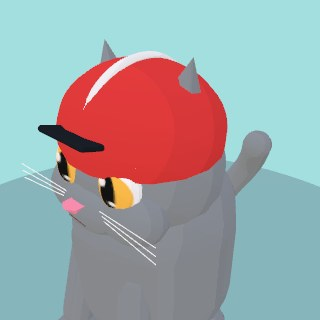
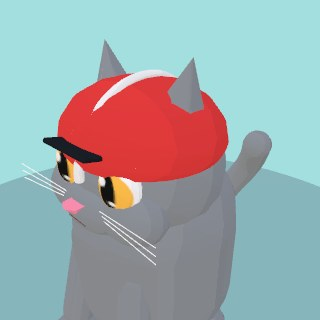
Molded curved surfaces for accessories (lathe/sweep/drape helpers)
Root-cause fix for 'primitives cobbled together': three new modeling
helpers build genuinely continuous curved surfaces, and the flagged
accessories are remodeled with them.

- latheDeform(profile, segs, deform): revolve ONE unbroken 2D silhouette
  (brim + crown + dome as a single surface), then sculpt it with an
  azimuth-aware vertex callback. Deforms are cos/sin/|x| forms so the
  lathe seam stays welded.
- taperedTube(points, r0, r1): sweep a shrinking circle along a curve —
  smooth single-piece horns (TubeGeometry can't taper).
- torsoRibbonGeo(...): a cloth strip whose vertices all lie on the torso
  capsule's surface (+offset) — fabric that drapes down the chest.

Remodeled with them:
- Pirate tricorn: one lathed dome+brim, brim folded up-and-inward in
  three cos(3th) lobes like a real pinned tricorn.
- Cowboy: one lathed crown+brim; sides roll up (|sin th|^3 lift) and a
  cattleman crease is carved into the crown top.
- Aviator: one lathed cap whose skirt hangs long at the sides (molded ear
  flaps, no head clipping) and lifts clear of face and nape.
- Racing helmet: one lathed low shell with flared lip, sized to hug the
  scalp; slim stripe + small peak.
- Viking horns: single smooth tapered sweeps.
- Crown: one molded zigzag ring (six points in the wall's own top edge).
- Scarf: the hanging end is a conforming drape down the chest with a
  flush woven-in white tip.
Also: wider cap brim, steeper bandana/scarf band tilt (top edge clears
[…]

Changed region(s): [[0.125, 0.1562, 0.7188, 0.5938], [0.4062, 0.5625, 0.5625, 0.5938], [0.5625, 0.5312, 0.6562, 0.5625]]

diff --git a/src/models.js b/src/models.js
@@ -639,6 +639,87 @@ function chestDecalGeo(big) {
   return (_chestDecalGeo[key] = _sharedGeo(g));
 }
 
+// --- Molded-surface helpers -------------------------------------------------
+// The accessories used to be primitive assemblies, which always read as parts
+// stuck together. These build genuinely continuous curved surfaces instead:
+//
+// latheDeform: revolve a 2D profile (one unbroken silhouette — brim, crown and
+// dome in a single surface) and then sculpt it with an azimuth-aware callback —
+// tricorn folds, cowboy brim curls, ear-flap skirts are all carved into the ONE
+// mesh rather than bolted on. The deform must agree at θ=±π (use cos/sin/|x|
+// forms) so the lathe seam stays welded.
+function latheDeform(points, segs, deform) {
+  const g = new THREE.LatheGeometry(points.map(([r, y]) => new THREE.Vector2(r, y)), segs);
+  if (deform) {
+    const pos = g.attributes.position;
+    const v = new THREE.Vector3();
+    for (let i = 0; i < pos.count; i++) {
+      v.set(pos.getX(i), pos.getY(i), pos.getZ(i));
+      deform(v, Math.atan2(v.x, v.z), Math.hypot(v.x, v.z));
+      pos.setXYZ(i, v.x, v.y, v.z);
+    }
+  }
+  g.computeVertexNormals();
+  return g;
+}
+// taperedTube: sweep a circle of shrinking radius along a curve — one smooth
+// molded piece for horns and the like (TubeGeometry can't taper).
+function taperedTube(pts, r0, r1, segs = 14, radial = 10) {
+  const curve = new THREE.CatmullRomCurve3(pts);
+  const frames = curve.computeFrenetFrames(segs, false);
+  const pos = [], uv = [], idx = [];
+  for (let i = 0; i <= segs; i++) {
+    const t = i / segs;
+    const c = curve.getPoint(t);
+    const rad = r0 + (r1 - r0) * Math.pow(t, 0.85);
+    const n = frames.normals[i], b = frames.binormals[i];
+    for (let j = 0; j <= radial; j++) {
+      const a = (j / radial) * Math.PI * 2, ca = Math.cos(a), sa = Math.sin(a);
+      pos.push(c.x + rad * (ca * n.x + sa * b.x), c.y + rad * (ca * n.y + sa * b.y), c.z + rad * (ca * n.z + sa * b.z));
+      uv.push(j / radial, t);
+    }
+  }
+  for (let i = 0; i < segs; i++)
+    for (let j = 0; j < radial; j++) {
+      const a = i * (radial + 1) + j, b2 = a + radial + 1;
+      idx.push(a, b2, a + 1, a + 1, b2, b2 + 1);
+    }
+  const g = new THREE.BufferGeometry();
+  g.setAttribute("position", new THREE.Float32BufferAttribute(pos, 3));
+  g.setAttribute("uv", new THREE.Float32BufferAttribute(uv, 2));
+  g.setIndex(idx);
+  g.computeVertexNormals();
+  return g;
+}
+// torsoRibbon: a cloth strip draped down the torso FRONT — a grid whose every
+// vertex lies on the body capsule's cross-section (+offset), so the ribbon
+// follows the chest curve like fabric lying on fur (same projection trick as
+// the chest-patch decal).
+function torsoRibbonGeo(x0, x1, y0, y1, off, rows = 8) {
+  const pos = [], uv = [], idx = [];
+  for (let i = 0; i <= rows; i++) {
+    const ty = i / rows, y = y0 + (y1 - y0) * ty;
+    const dy = Math.max(0, y - 1.39);
+    const R = Math.sqrt(Math.max(0.01, 0.81 - dy * dy)) + off;
+    for (let j = 0; j <= 2; j++) {
+      const x = x0 + (x1 - x0) * (j / 2);
+      pos.push(x, y, Math.sqrt(Math.max(0.01, R * R - x * x)));
+      uv.push(j / 2, ty);
+    }
+  }
+  for (let i = 0; i < rows; i++)
+    for (let j = 0; j < 2; j++) {
+      const a = i * 3 + j, b = a + 3;
+      idx.push(a, b, a + 1, a + 1, b, b + 1);
+    }
+  const g = new THREE.BufferGeometry();
+  g.setAttribute("position", new THREE.Float32BufferAttribute(pos, 3));
+  g.setAttribute("uv", new THREE.Float32BufferAttribute(uv, 2));
+  g.setIndex(idx);
+  g.computeVertexNormals();
+  return g;
+}
+
 let _catConstGeo = null;
 function catConstGeo() {
   if (_catConstGeo) return _catConstGeo;
@@ -1029,8 +1110,8 @@ export function createCat(furColor = 0xf0a830, opts = {}) {
     const dome = new THREE.Mesh(new THREE.SphereGeometry(0.62, 16, 12, 0, Math.PI * 2, 0, Math.PI / 2), m);
     dome.position.set(0, 0.46, 0.04); dome.scale.set(1, 0.72, 1);
     acc.add(dome);
-    const brim = new THREE.Mesh(rbox(0.66, 0.08, 0.56, 0.04), m);
-    brim.position.set(0, 0.45, 0.66); // rear tucks under the dome, front juts over the brow
+    const brim = new THREE.Mesh(rbox(0.86, 0.08, 0.62, 0.04), m);
+    brim.position.set(0, 0.45, 0.68); // rear tucks under the dome, front juts wide over the brow
     acc.add(brim);
     const btn = new THREE.Mesh(new THREE.SphereGeometry(0.06, 8, 8), accMat(0xffffff));
     btn.position.set(0, 0.78, 0.04); acc.add(btn);  } else if (accId === "headphones") {
@@ -1122,7 +1203,7 @@ export function createCat(furColor = 0xf0a830, opts = {}) {
     // (Ring smaller + shifted forward for the same egg-section fit reasons as
     // the collar below.)
     const band = new THREE.Mesh(new THREE.CylinderGeometry(0.82, 0.9, 0.2, 32, 1, true), bandMat);
-    band.position.set(0, 1.7, 0.08); band.rotation.x = 0.24; acc.add(band); // y1.70: a hair lower so the top edge clears the cheeks
+    band.position.set(0, 1.68, 0.08); band.rotation.x = 0.3; acc.add(band); // steeper tilt: the front-top edge stays below the cheeks
     // Kerchief: a wide, short inverted triangle. NOT a flat sheet — it bulges
     // FORWARD in the middle (a gentle fold) so it drapes OVER the rounded chest
     // instead of the chest bulging through a flat plane. Top edge tucks behind the
@@ -1194,36 +1275,50 @@ export function createCat(furColor = 0xf0a830, opts = {}) {
     rim.position.set(0, 0.46, 0.02); rim.rotation.x = Math.PI / 2; acc.add(rim);
     const pom = new THREE.Mesh(new THREE.SphereGeometry(0.12, 10, 10), accMat(0xf0f0f0));
     pom.position.set(0, 1.36, 0.02); acc.add(pom);  } else if (accId === "crown") {
-    // royal crown — SMALL, perched high on the crown of the head so it sits
-    // between the ears instead of ringing through them
-    const m = accMat(accCol, 0.35, 0.7);
-    const band = new THREE.Mesh(new THREE.CylinderGeometry(0.34, 0.37, 0.22, 16, 1, true),
+    // royal crown — ONE molded zigzag ring (a wall whose top edge rises and
+    // falls into six points), small and perched high between the ears.
+    const S = 48, POINTS = 6;
+    const pos = [], uvArr = [], idxArr = [];
+    for (let i = 0; i <= S; i++) {
+      const a = (i / S) * Math.PI * 2;
+      // triangle wave: 0 at valleys, 1 at each of the six tips
+      const tri = 1 - Math.abs(((i / S) * POINTS * 2) % 2 - 1);
+      const rb = 0.36, rt = 0.38 + tri * 0.02;
+      pos.push(Math.sin(a) * rb, 0.76, Math.cos(a) * rb + 0.08);
+      pos.push(Math.sin(a) * rt, 0.92 + tri * 0.24, Math.cos(a) * rt + 0.08);
+      uvArr.push(i / S, 0, i / S, 1);
+    }
+    for (let i = 0; i < S; i++) {
+      const a = i * 2;
+      idxArr.push(a, a + 2, a + 1, a + 1, a + 2, a + 3);
+    }
+    const cg = new THREE.BufferGeometry();
+    cg.setAttribute("position", new THREE.Float32BufferAttribute(pos, 3));
+    cg.setAttribute("uv", new THREE.Float32BufferAttribute(uvArr, 2));
+    cg.setIndex(idxArr);
+    cg.computeVertexNormals();
+    const crown = new THREE.Mesh(cg,
       new THREE.MeshStandardMaterial({ color: accCol, roughness: 0.35, metalness: 0.7, side: THREE.DoubleSide }));
-    band.position.set(0, 0.85, 0.08); acc.add(band);
-    for (let i = 0; i < 6; i++) {
-      const a = (i / 6) * Math.PI * 2 + Math.PI / 6;
-      const spike = new THREE.Mesh(new THREE.ConeGeometry(0.07, 0.2, 4), m);
-      spike.position.set(Math.sin(a) * 0.33, 1.03, Math.cos(a) * 0.33 + 0.08);
-      acc.add(spike);
-    }
+    acc.add(crown);
     const jewel = new THREE.Mesh(new THREE.SphereGeometry(0.05, 10, 10), accMat(0xe23b3b, 0.25, 0.3));
-    jewel.position.set(0, 0.86, 0.45); acc.add(jewel);  } else if (accId === "pirate") {
-    // tricorn — a felt dome with three LARGE up-curled folds leaning against
-    // it (each fold a wide flattened sphere raked steeply, like the folded
-    // brim of a real tricorn)
-    const m = accMat(accCol, 0.7);
-    const dome = new THREE.Mesh(new THREE.SphereGeometry(0.62, 16, 12, 0, Math.PI * 2, 0, Math.PI / 2), m);
-    dome.position.set(0, 0.5, 0.02); dome.scale.set(1, 0.85, 1); acc.add(dome);
-    for (const a of [0, 2.09, -2.09]) {
-      const fold = new THREE.Mesh(new THREE.SphereGeometry(0.55, 14, 12), m);
-      fold.rotation.order = "YXZ"; // yaw around the dome, then rake the wall
-      fold.position.set(Math.sin(a) * 0.52, 0.62, Math.cos(a) * 0.52 + 0.02);
-      fold.rotation.y = a; fold.rotation.x = -1.05;
-      fold.scale.set(1.0, 0.6, 0.16);
-      acc.add(fold);
-    }
-    const trim = new THREE.Mesh(new THREE.TorusGeometry(0.58, 0.035, 6, 20), accMat(0xf5c518, 0.4, 0.5));
-    trim.position.set(0, 0.52, 0.02); trim.rotation.x = Math.PI / 2; acc.add(trim);  } else if (accId === "tophat") {
+    jewel.position.set(0, 0.84, 0.46); acc.add(jewel);  } else if (accId === "pirate") {
+    // tricorn — ONE lathed surface: dome + brim in a single profile, then the
+    // brim is folded UP-AND-INWARD in three places (cos 3θ lobes), exactly how
+    // a real tricorn is a round hat with its brim pinned up three times.
+    const m = new THREE.MeshStandardMaterial({ color: accCol, roughness: 0.7, side: THREE.DoubleSide });
+    const profile = [[0.95, 0.44], [0.8, 0.42], [0.66, 0.43], [0.6, 0.5], [0.55, 0.68], [0.42, 0.82], [0.22, 0.9], [0, 0.92]];
+    const geo = latheDeform(profile, 40, (v, theta, r) => {
+      if (r <= 0.62) return; // dome untouched; only the brim folds
+      const k = (r - 0.62) / 0.33;                       // 0 at brim root → 1 at edge
+      const fold = Math.pow(Math.max(0, Math.cos(3 * theta)), 1.4); // three lobes (front + two rear)
+      v.y += 0.5 * fold * k;
+      const pull = 1 - 0.45 * fold * k;                  // folded edge curls in toward the dome
+      v.x *= pull; v.z = (v.z - 0) * pull;
+    });
+    const hat = new THREE.Mesh(geo, m);
+    hat.position.set(0, 0.1, 0.02); acc.add(hat);
+    const trim = new THREE.Mesh(new THREE.TorusGeometry(0.6, 0.03, 6, 24), accMat(0xf5c518, 0.4, 0.5));
+    trim.position.set(0, 0.62, 0.02); trim.rotation.x = Math.PI / 2; acc.add(trim);  } else if (accId === "tophat") {
     // formal top hat (fedora-slim so it rides between the ears) + a
     // gold-rimmed monocle at the right eye
     const m = accMat(accCol, 0.5);
@@ -1237,36 +1332,41 @@ export function createCat(furColor = 0xf0a830, opts = {}) {
     ring.position.set(0.34, 0.08, 0.86); acc.add(ring);
     const glass = new THREE.Mesh(new THREE.CylinderGeometry(0.14, 0.14, 0.02, 16), accMat(0xcfe0ea, 0.15, 0.5));
     glass.rotation.x = Math.PI / 2; glass.position.set(0.34, 0.08, 0.85); acc.add(glass);  } else if (accId === "cowboy") {
-    // wide brim with the SIDES curled up (two raked wings) + a cattleman
-    // crease faked by two ridge lobes on the crown top with a valley between
-    const m = accMat(accCol, 0.75);
-    const disc = new THREE.Mesh(new THREE.CylinderGeometry(0.74, 0.74, 0.05, 20), m);
-    disc.position.set(0, 0.62, 0.02); acc.add(disc);
-    for (const sx of [-1, 1]) {
-      const wing = new THREE.Mesh(rbox(0.34, 0.06, 0.92, 0.03), m);
-      wing.position.set(sx * 0.72, 0.72, 0.02);
-      wing.rotation.z = sx * 0.55; // outer edge sweeps up
-      acc.add(wing);
-    }
-    const crown = new THREE.Mesh(new THREE.CylinderGeometry(0.44, 0.5, 0.45, 16), m);
-    crown.position.set(0, 0.84, 0.02); crown.scale.set(1, 1, 0.92); acc.add(crown);
-    for (const sx of [-1, 1]) {
-      const ridge = new THREE.Mesh(new THREE.SphereGeometry(0.14, 10, 10), m);
-      ridge.position.set(sx * 0.16, 1.06, 0.02);
-      ridge.scale.set(1, 0.65, 2.4); // front-to-back ridges; the gap between reads as the crease
-      acc.add(ridge);
-    }
-    const hatband = new THREE.Mesh(new THREE.CylinderGeometry(0.5, 0.5, 0.1, 16), accMat(accColDark()));
-    hatband.position.set(0, 0.68, 0.02); hatband.scale.set(1, 1, 0.92); acc.add(hatband);  } else if (accId === "aviator") {
-    // leather flight cap with ear flaps + goggles pushed up on the forehead
-    const m = accMat(accCol, 0.7);
-    const dome = new THREE.Mesh(new THREE.SphereGeometry(0.66, 16, 12, 0, Math.PI * 2, 0, Math.PI * 0.62), m);
-    dome.position.set(0, 0.35, 0); dome.scale.set(1, 0.85, 1); acc.add(dome);
-    for (const sx of [-1, 1]) {
-      // Big ear flaps hanging down the sides of the head, like the real thing.
-      const flap = new THREE.Mesh(rbox(0.18, 0.52, 0.42, 0.07), m);
-      flap.position.set(sx * 0.68, -0.08, 0.08); acc.add(flap);
-    }
+    // cowboy hat — ONE lathed surface: rounded crown flowing into a wide brim,
+    // then sculpted: the brim sweeps UP at the sides (|sinθ|³ lift, like a real
+    // rolled western brim) and the crown top gets a front-to-back cattleman
+    // crease (a centred dip carved into the same surface).
+    const m = new THREE.MeshStandardMaterial({ color: accCol, roughness: 0.75, side: THREE.DoubleSide });
+    const profile = [[1.02, 0.6], [0.9, 0.57], [0.62, 0.6], [0.52, 0.64], [0.47, 0.9], [0.45, 1.04], [0.34, 1.12], [0.16, 1.15], [0, 1.16]];
+    const geo = latheDeform(profile, 40, (v, theta, r) => {
+      if (r > 0.55 && v.y < 0.75) {
+        // brim zone: side edges roll up, front/back stay level
+        const k = (r - 0.55) / 0.47;
+        v.y += 0.38 * Math.pow(Math.abs(Math.sin(theta)), 3) * k;
+      } else if (v.y > 1.02) {
+        // crown top: carve the crease along the centre line
+        const d = Math.exp(-(v.x * v.x) / (0.18 * 0.18));
+        v.y -= 0.14 * d * ((v.y - 1.02) / 0.14);
+      }
+    });
+    const hat = new THREE.Mesh(geo, m);
+    hat.position.set(0, 0.02, 0.02); hat.scale.set(1, 1, 0.94); acc.add(hat);
+    const hatband = new THREE.Mesh(new THREE.CylinderGeometry(0.52, 0.53, 0.1, 18), accMat(accColDark()));
+    hatband.position.set(0, 0.7, 0.02); hatband.scale.set(1, 1, 0.94); acc.add(hatband);  } else if (accId === "aviator") {
+    // leather flight cap — ONE lathed surface whose skirt hangs LONG at the
+    // sides (the ear flaps) and lifts clear of the face and nape: the flaps
+    // are part of the cap's own surface, molded, never clipping the head.
+    const m = new THREE.MeshStandardMaterial({ color: accCol, roughness: 0.7, side: THREE.DoubleSide });
+    const profile = [[0.68, -0.15], [0.72, 0.1], [0.7, 0.32], [0.6, 0.55], [0.42, 0.72], [0.2, 0.8], [0, 0.82]];
+    const geo = latheDeform(profile, 36, (v, theta) => {
+      if (v.y < 0.32) {
+        // skirt zone: raise the front and back, leave the sides hanging as flaps
+        const side = Math.pow(Math.abs(Math.sin(theta)), 1.6);
+        v.y += (0.32 - v.y) * (1 - side) * 0.95;
+      }
+    });
+    const cap = new THREE.Mesh(geo, m);
+    cap.position.set(0, 0, 0.02); cap.scale.set(1.06, 1, 1.02); acc.add(cap);
     // Goggles rest ON the cap's surface (centres pushed out along the dome's
     // normal, tilted to lie against the slope) so they never sink into it.
     const gm = accMat(0x8a8f98, 0.4, 0.6);
@@ -1278,27 +1378,29 @@ export function createCat(furColor = 0xf0a830, opts = {}) {
     }
     const bridge = new THREE.Mesh(rbox(0.14, 0.05, 0.05, 0.02), gm);
     bridge.position.set(0, 0.6, 0.65); bridge.rotation.x = -0.52; acc.add(bridge);  } else if (accId === "helmet") {
-    // kart racing helmet: a glossy dome WIDE enough to cap the whole skull
-    // (like the viking dome), a white racing stripe arcing front-to-back over
-    // the top, and an upturned sun peak at the brow.
-    const m = accMat(accCol, 0.35);
-    const shell = new THREE.Mesh(new THREE.SphereGeometry(0.68, 18, 14, 0, Math.PI * 2, 0, Math.PI * 0.58), m);
-    shell.position.set(0, 0.38, 0.04); shell.scale.set(1.2, 0.95, 1.14); acc.add(shell);
-    const stripe = new THREE.Mesh(new THREE.TorusGeometry(0.69, 0.05, 8, 24, Math.PI), accMat(0xf0f0f0, 0.4));
+    // kart racing helmet — ONE lathed shell: a low rounded dome hugging the
+    // scalp (flared lip at the rim), a slim white stripe arcing nose-to-nape,
+    // and a small upturned peak at the brow.
+    const m = new THREE.MeshStandardMaterial({ color: accCol, roughness: 0.35, side: THREE.DoubleSide });
+    const profile = [[0.72, 0.24], [0.75, 0.32], [0.72, 0.48], [0.6, 0.66], [0.4, 0.79], [0.2, 0.85], [0, 0.87]];
+    const shell = new THREE.Mesh(latheDeform(profile, 36), m);
+    shell.position.set(0, 0, 0.03); shell.scale.set(1.1, 0.98, 1.04); acc.add(shell);
+    const stripe = new THREE.Mesh(new THREE.TorusGeometry(0.76, 0.045, 8, 24, Math.PI), accMat(0xf0f0f0, 0.4));
     stripe.rotation.y = -Math.PI / 2; // arc runs nose-to-nape over the dome
-    stripe.position.set(0, 0.38, 0.04); stripe.scale.set(1, 0.94, 1.13); acc.add(stripe);
-    const peak = new THREE.Mesh(rbox(0.6, 0.06, 0.34, 0.04), accMat(0x1a1f26, 0.3, 0.3));
-    peak.position.set(0, 0.52, 0.78); peak.rotation.x = -0.3; acc.add(peak);  } else if (accId === "chef") {
-    // toque — a straight band with a TALL puffy cloud of a top
+    stripe.position.set(0, 0.12, 0.03); stripe.scale.set(1, 0.98, 1.05); acc.add(stripe);
+    const peak = new THREE.Mesh(rbox(0.56, 0.05, 0.3, 0.04), accMat(0x1a1f26, 0.3, 0.3));
+    peak.position.set(0, 0.42, 0.78); peak.rotation.x = -0.28; acc.add(peak);  } else if (accId === "chef") {
+    // toque — the original band-plus-cloud proportions, scaled up a touch
+    // (the first pass looked right, just small)
     const m = accMat(accCol, 0.85);
-    const band = new THREE.Mesh(new THREE.CylinderGeometry(0.56, 0.56, 0.34, 18), m);
-    band.position.set(0, 0.58, 0.02); acc.add(band);
-    const puff = new THREE.Mesh(new THREE.SphereGeometry(0.5, 14, 12), m);
-    puff.position.set(0, 1.02, 0.02); puff.scale.set(1, 0.88, 1); acc.add(puff);
+    const band = new THREE.Mesh(new THREE.CylinderGeometry(0.58, 0.58, 0.3, 18), m);
+    band.position.set(0, 0.56, 0.02); acc.add(band);
+    const puff = new THREE.Mesh(new THREE.SphereGeometry(0.55, 14, 12), m);
+    puff.position.set(0, 0.95, 0.02); puff.scale.set(1, 0.75, 1); acc.add(puff);
     for (let i = 0; i < 4; i++) {
       const a = (i / 4) * Math.PI * 2 + 0.5;
-      const lobe = new THREE.Mesh(new THREE.SphereGeometry(0.24, 10, 10), m);
-      lobe.position.set(Math.sin(a) * 0.34, 1.1, Math.cos(a) * 0.34 + 0.02); acc.add(lobe);
+      const lobe = new THREE.Mesh(new THREE.SphereGeometry(0.26, 10, 10), m);
+      lobe.position.set(Math.sin(a) * 0.37, 1.0, Math.cos(a) * 0.37 + 0.02); acc.add(lobe);
     }  } else if (accId === "wizard") {
     // tall pointed hat, perched a bit higher so its brim rides the crown of
     // the head clear of the ears and scalp
@@ -1306,7 +1408,11 @@ export function createCat(furColor = 0xf0a830, opts = {}) {
     const brim = new THREE.Mesh(new THREE.CylinderGeometry(0.78, 0.78, 0.06, 20), m);
     brim.position.set(0, 0.6, 0.02); acc.add(brim);
     const cone = new THREE.Mesh(new THREE.ConeGeometry(0.5, 1.15, 16), m);
-    cone.position.set(0, 1.18, -0.02); cone.rotation.x = -0.1; acc.add(cone);
+    cone.position.set(0, 1.15, 0); cone.rotation.x = -0.06; acc.add(cone);
+    // hat band covers the cone/brim junction (the tilt otherwise opens a gap
+    // at the front)
+    const wband = new THREE.Mesh(new THREE.CylinderGeometry(0.48, 0.5, 0.14, 16), accMat(accColDark()));
+    wband.position.set(0, 0.67, 0.01); acc.add(wband);
     const star1 = new THREE.Mesh(new THREE.SphereGeometry(0.05, 8, 8), accMat(0xf5c518, 0.4, 0.4));
     star1.position.set(0.2, 0.98, 0.38); acc.add(star1);
     const star2 = new THREE.Mesh(new THREE.SphereGeometry(0.04, 8, 8), accMat(0xf5c518, 0.4, 0.4));
@@ -1319,30 +1425,32 @@ export function createCat(furColor = 0xf0a830, opts = {}) {
     dome.position.set(0, 0.4, 0.02); dome.scale.set(1.22, 0.95, 1.16); acc.add(dome);
     const rim = new THREE.Mesh(new THREE.TorusGeometry(0.8, 0.07, 8, 24), accMat(accColDark(), 0.5, 0.4));
     rim.position.set(0, 0.42, 0.02); rim.rotation.x = Math.PI / 2; rim.scale.set(1.02, 0.97, 1); acc.add(rim);
-    // BIG curved horns: three stacked segments per side (thick frustum base →
-    // slimmer mid → tapered tip cone), each tilted a little more upright, so
-    // the horn sweeps out from the helmet and curls up like the real thing.
+    // BIG horns, each ONE smooth tapered tube swept along a curve — out from
+    // the helmet, then sweeping up with the tip curling slightly inward.
     const hornMat = accMat(0xf0ead6, 0.6);
     for (const sx of [-1, 1]) {
-      const base = new THREE.Mesh(new THREE.CylinderGeometry(0.11, 0.17, 0.32, 10), hornMat);
-      base.position.set(sx * 0.84, 0.6, 0.02); base.rotation.z = sx * -0.95; acc.add(base);
-      const mid = new THREE.Mesh(new THREE.CylinderGeometry(0.07, 0.11, 0.32, 10), hornMat);
-      mid.position.set(sx * 1.03, 0.79, 0.02); mid.rotation.z = sx * -0.5; acc.add(mid);
-      const tip = new THREE.Mesh(new THREE.ConeGeometry(0.075, 0.38, 10), hornMat);
-      tip.position.set(sx * 1.12, 1.05, 0.02); tip.rotation.z = sx * -0.08; acc.add(tip);
+      const horn = new THREE.Mesh(taperedTube([
+        new THREE.Vector3(sx * 0.6, 0.5, 0.02),
+        new THREE.Vector3(sx * 0.97, 0.66, 0.02),
+        new THREE.Vector3(sx * 1.1, 0.98, 0.04),
+        new THREE.Vector3(sx * 1.0, 1.32, 0.06),
+      ], 0.17, 0.02), hornMat);
+      acc.add(horn);
     }  } else if (accId === "scarf") {
     // knit scarf: the collar's tilted cone band, taller, with a striped tail
     // draped down the chest (body frame, same fit rules as the collar).
     const m = new THREE.MeshStandardMaterial({ color: accCol, roughness: 0.85, side: THREE.DoubleSide });
     const band = new THREE.Mesh(new THREE.CylinderGeometry(0.82, 0.9, 0.26, 32, 1, true), m);
-    band.position.set(0, 1.68, 0.08); band.rotation.x = 0.22; acc.add(band); // y1.68: top edge clears the cheeks
-    // The hanging end is THIN like the loop (0.05 slab), and the white tip is
-    // a coplanar slab of the same thickness — flush with the cloth so it reads
-    // as a woven stripe, not a block stuck on the end.
-    const tail = new THREE.Mesh(rbox(0.28, 0.7, 0.05, 0.02), accMat(accCol, 0.85));
-    tail.position.set(0.32, 1.24, 0.9); tail.rotation.z = 0.12; tail.rotation.x = 0.1; acc.add(tail);
-    const stripe = new THREE.Mesh(rbox(0.28, 0.14, 0.055, 0.02), accMat(0xf0f0f0, 0.85));
-    stripe.position.set(0.355, 0.95, 0.87); stripe.rotation.z = 0.12; stripe.rotation.x = 0.1; acc.add(stripe);  } else if (accId === "charm") {
+    band.position.set(0, 1.66, 0.08); band.rotation.x = 0.28; acc.add(band); // steeper tilt keeps the top edge below the cheeks
+    // The hanging end DRAPES down the chest: a cloth ribbon whose every vertex
+    // lies on the torso's own surface (+0.035), so it follows the body curve
+    // out of the loop like real fabric — nothing bolted on. The white tip is
+    // the same kind of conforming patch a hair prouder, so it reads woven-in.
+    const drape = new THREE.Mesh(torsoRibbonGeo(0.14, 0.46, 1.46, 0.9, 0.035), m);
+    acc.add(drape);
+    const tipMat = new THREE.MeshStandardMaterial({ color: 0xf0f0f0, roughness: 0.85, side: THREE.DoubleSide });
+    const tipPatch = new THREE.Mesh(torsoRibbonGeo(0.14, 0.46, 1.04, 0.88, 0.042, 3), tipMat);
+    acc.add(tipPatch);  } else if (accId === "charm") {
     // the collar band with a little silver-blue fish where the bell would be
     // (treats are fish, after all)
     const m = new THREE.MeshStandardMaterial({ color: accCol, roughness: 0.55, side: THREE.DoubleSide });
